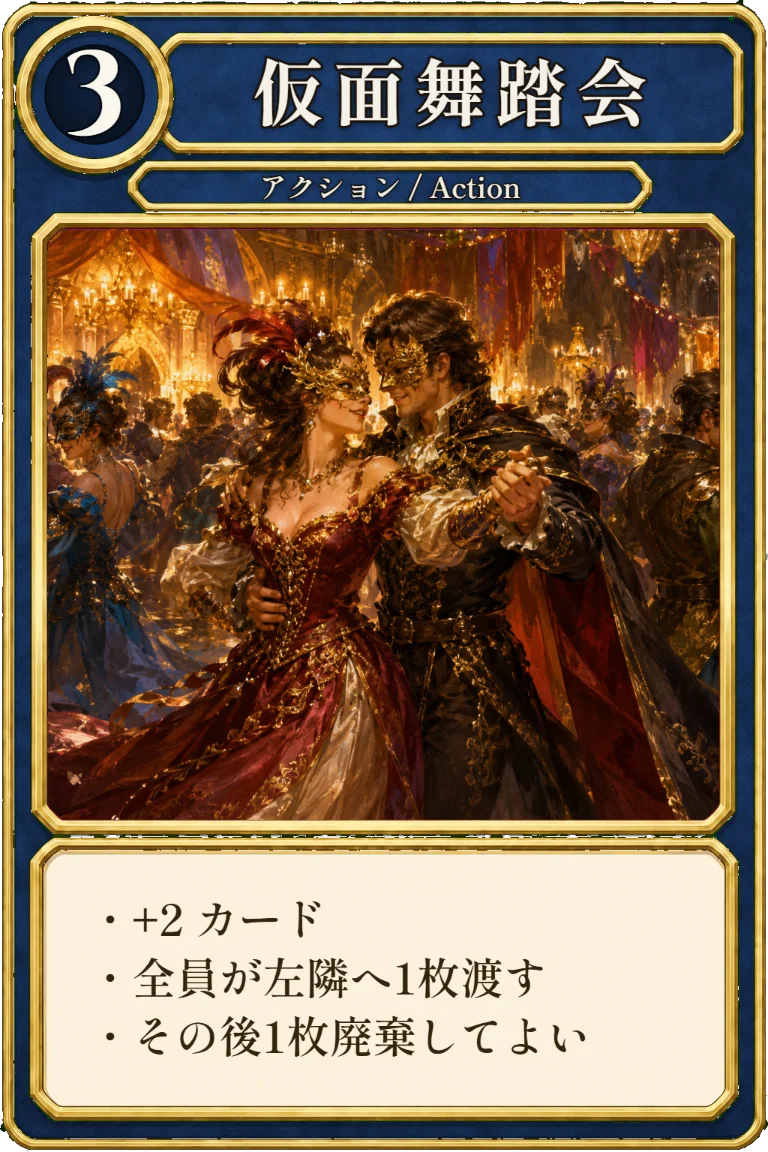
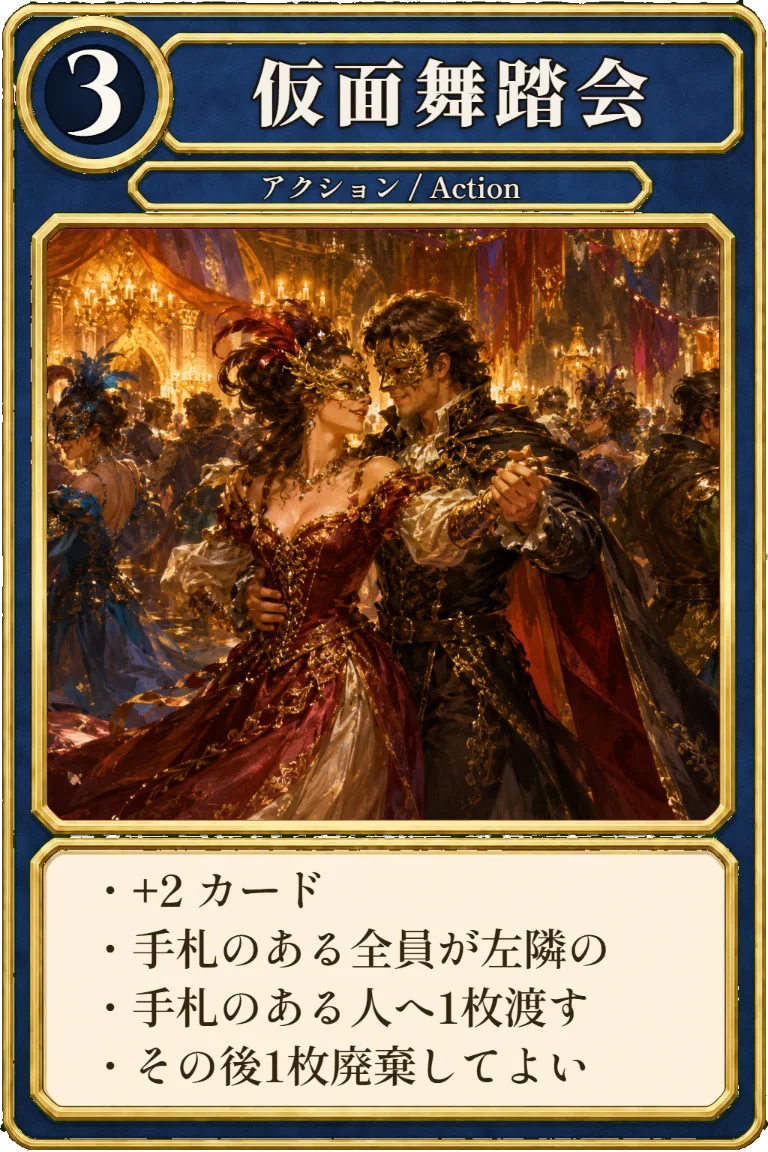
fix(intrigue): 仮面舞踏会が「手札のあるプレイヤーだけ」を半分しか実装していなかった（出荷済みの実バグ）
公式カード文（現行・第二版）＝`Each player with any cards in hand passes one to **the next such player**
to their left, at once.`
公式FAQ＝`Players with no cards in hand (such as due to Torturer) are skipped over －
**they neither pass a card nor receive one**.`
／`If only one player has cards in their hand, **they pass a card to themself**.`

`masqueradePassOrder` は**渡す側**から手札0枚のプレイヤーを正しく除外していたが、
`masqueradeApplyPasses` の渡し先が **`(idx + 1) % n`＝物理的な隣席**のままだった。

実測（node で再現）：
- 3人戦・席1が手札0枚 → 席0の金貨が**手札0枚の席1に渡り**、本来受け取る席2は何も受け取らない
- 2人戦・相手が手札0枚 → 公式は「自分自身に渡す＝手札が減らない」のに**1枚タダで献上**していた

→ 渡し先を **`order` の次の要素**にする（1人しか居なければ自分自身に戻る）＝公式の2つの裁定を同時に満たす。

⚠ 到達性＝**出荷セットで踏む**。手札を0枚にする経路は基本＋陰謀だけで成立する（民兵／拷問人）。
   `masquerade` は `intrigue` / `intrigue1e` にあり random・random-intrigue・random-1e・mix-all で普通に出る。

カード文も現行の公式文に合わせ（旧「各プレイヤーは同時に手札を1枚、左隣に渡す。」は挙動と食い違う）、
`js/carddata.js` の画像用テキストも直して **webp を焼き直した**（絵は既存のまま・目視確認済み）。

回帰テスト2件を `test/intrigue.test.js` に追加（3人戦の飛ばし／2人戦の自分自身へ）。
バグ注入（渡し先を物理的な隣席に戻す）で検出を確認。
npm test 全48スイート緑（陰謀 174件）／verify:e2e 9/9。

Changed region(s): [[0.125, 0.75, 0.8125, 0.9375], [0.3125, 0.0312, 0.8438, 0.125]]

diff --git a/js/engine.js b/js/engine.js
@@ -3576,12 +3576,23 @@
     for (let k = 0; k < n; k++) { const idx = (source + k) % n; if (state.players[idx].hand.length > 0) order.push(idx); }
     return order;
   }
-  // 集めた選択を一斉に適用（先に全員から取り除き→左隣へ配る＝同時）。左隣は (idx+1)%n。
+  /* 集めた選択を一斉に適用（先に全員から取り除き→配る＝同時）。
+     🛑 渡す先は **`order` の次の要素**＝「左隣の**手札を持つ**プレイヤー」であって、物理的な隣席ではない。
+     公式カード文（現行）＝`Each player with any cards in hand passes one to **the next such player**
+     to their left, at once.`
+     公式FAQ＝`Players with no cards in hand (such as due to Torturer) are skipped over －
+       **they neither pass a card nor receive one**.`
+     ／`If only one player has cards in their hand, **they pass a card to themself**.`
+     ⇒ `(idx + 1) % n`（物理的な隣）だと **手札0枚の相手にカードを献上してしまう**
+        （2人戦で相手の手札が0枚だと、公式は「自分自身に渡す＝手札が減らない」のに1枚失う）。
+     ⚠ `order` は**渡す前**の手札枚数で作ってある＝渡した結果0枚になった人も受け取る側に残る（公式）。 */
   function masqueradeApplyPasses(state, order, picks) {
-    const n = state.players.length;
     order.forEach((idx) => { removeOne(state.players[idx].hand, picks[idx]); });
-    order.forEach((idx) => { state.players[(idx + 1) % n].hand.push(picks[idx]); });
-    log(state, '仮面舞踏会：各プレイヤーが手札1枚を左隣へ渡した。');
+    order.forEach((idx, i) => {
+      const to = order[(i + 1) % order.length];   // 1人しか居なければ自分自身に戻る
+      state.players[to].hand.push(picks[idx]);
+    });
+    log(state, '仮面舞踏会：手札のある各プレイヤーが手札1枚を「左隣の手札のあるプレイヤー」へ渡した。');
   }
   function masqueradeAfterPass(state, source) {
     // 使用者は手札を1枚廃棄してよい（任意）

diff --git a/js/cards.js b/js/cards.js
@@ -139,7 +139,11 @@
     minion:        { id: 'minion',        name: '手先',       cost: 5, types: ['action', 'attack'],
                      text: '+1 アクション\n次のうち1つを選ぶ：\n・+2 コイン\n・手札を捨てて4枚引く。さらに手札5枚以上の\n　他のプレイヤーも手札を捨てて4枚引く。' },
     masquerade:    { id: 'masquerade',    name: '仮面舞踏会', cost: 3, types: ['action'],
-                     text: '+2 カード\n各プレイヤーは同時に手札を1枚、左隣に渡す。\nその後、あなたは手札を1枚廃棄してもよい。' },
+                     /* 現行（陰謀第二版）の英語カード文＝`Each player with any cards in hand passes one to
+                        the next such player to their left, at once.` ＝渡す側も受け取る側も
+                        **手札のあるプレイヤーだけ**（公式FAQ＝手札0枚の人は飛ばされ、渡しも受け取りもしない／
+                        手札があるのが1人だけならその人は自分自身に渡す）。旧文「左隣に渡す」だと挙動と食い違う。 */
+                     text: '+2 カード\n手札のある各プレイヤーは同時に、手札を1枚、\n左隣の手札のあるプレイヤーに渡す。\nその後、あなたは手札を1枚廃棄してもよい。' },
     secret_chamber:{ id: 'secret_chamber',name: '秘密の小部屋', cost: 2, types: ['action', 'reaction'],
                      text: '手札を好きな枚数捨て、捨てた1枚につき +1 コイン。\n（リアクション）他人がアタックを使ったとき公開してよい。\nその場合 +2 カードし、手札2枚を山札の上に戻す。' },
 

diff --git a/js/carddata.js b/js/carddata.js
@@ -71,7 +71,8 @@
     "swindler": { icon: "🎭", effects: ["+2 コイン", "他は山札の上を廃棄", "→ 廃棄と同コストをあなたが選んで与える"] },
     "saboteur": { icon: "💣", effects: ["他はコスト3以上を廃棄", "→ 2安いカードを獲得してよい"] },
     "minion": { icon: "🕴", effects: ["+1 アクション", "+2コイン か 全員引き直し を選ぶ"] },
-    "masquerade": { icon: "🎭", effects: ["+2 カード", "全員が左隣へ1枚渡す", "その後1枚廃棄してよい"] },
+    // ⚠ 渡す先は「左隣の**手札のある**プレイヤー」（公式FAQ＝手札0枚の人は渡しも受け取りもしない）。
+    "masquerade": { icon: "🎭", effects: ["+2 カード", "手札のある全員が左隣の", "手札のある人へ1枚渡す", "その後1枚廃棄してよい"] },
     "secret_chamber": { icon: "🔮", effects: ["捨てた1枚につき +1コイン", "(リアクション)アタック時に+2引き2枚戻す"] },
     "harbinger": { icon: "📯", effects: ["+1 カード", "+1 アクション", "捨て札1枚を山札の上に置いてよい"] },
     "merchant": { icon: "💱", effects: ["+1 カード", "+1 アクション", "最初の銀貨で +1 コイン"] },
